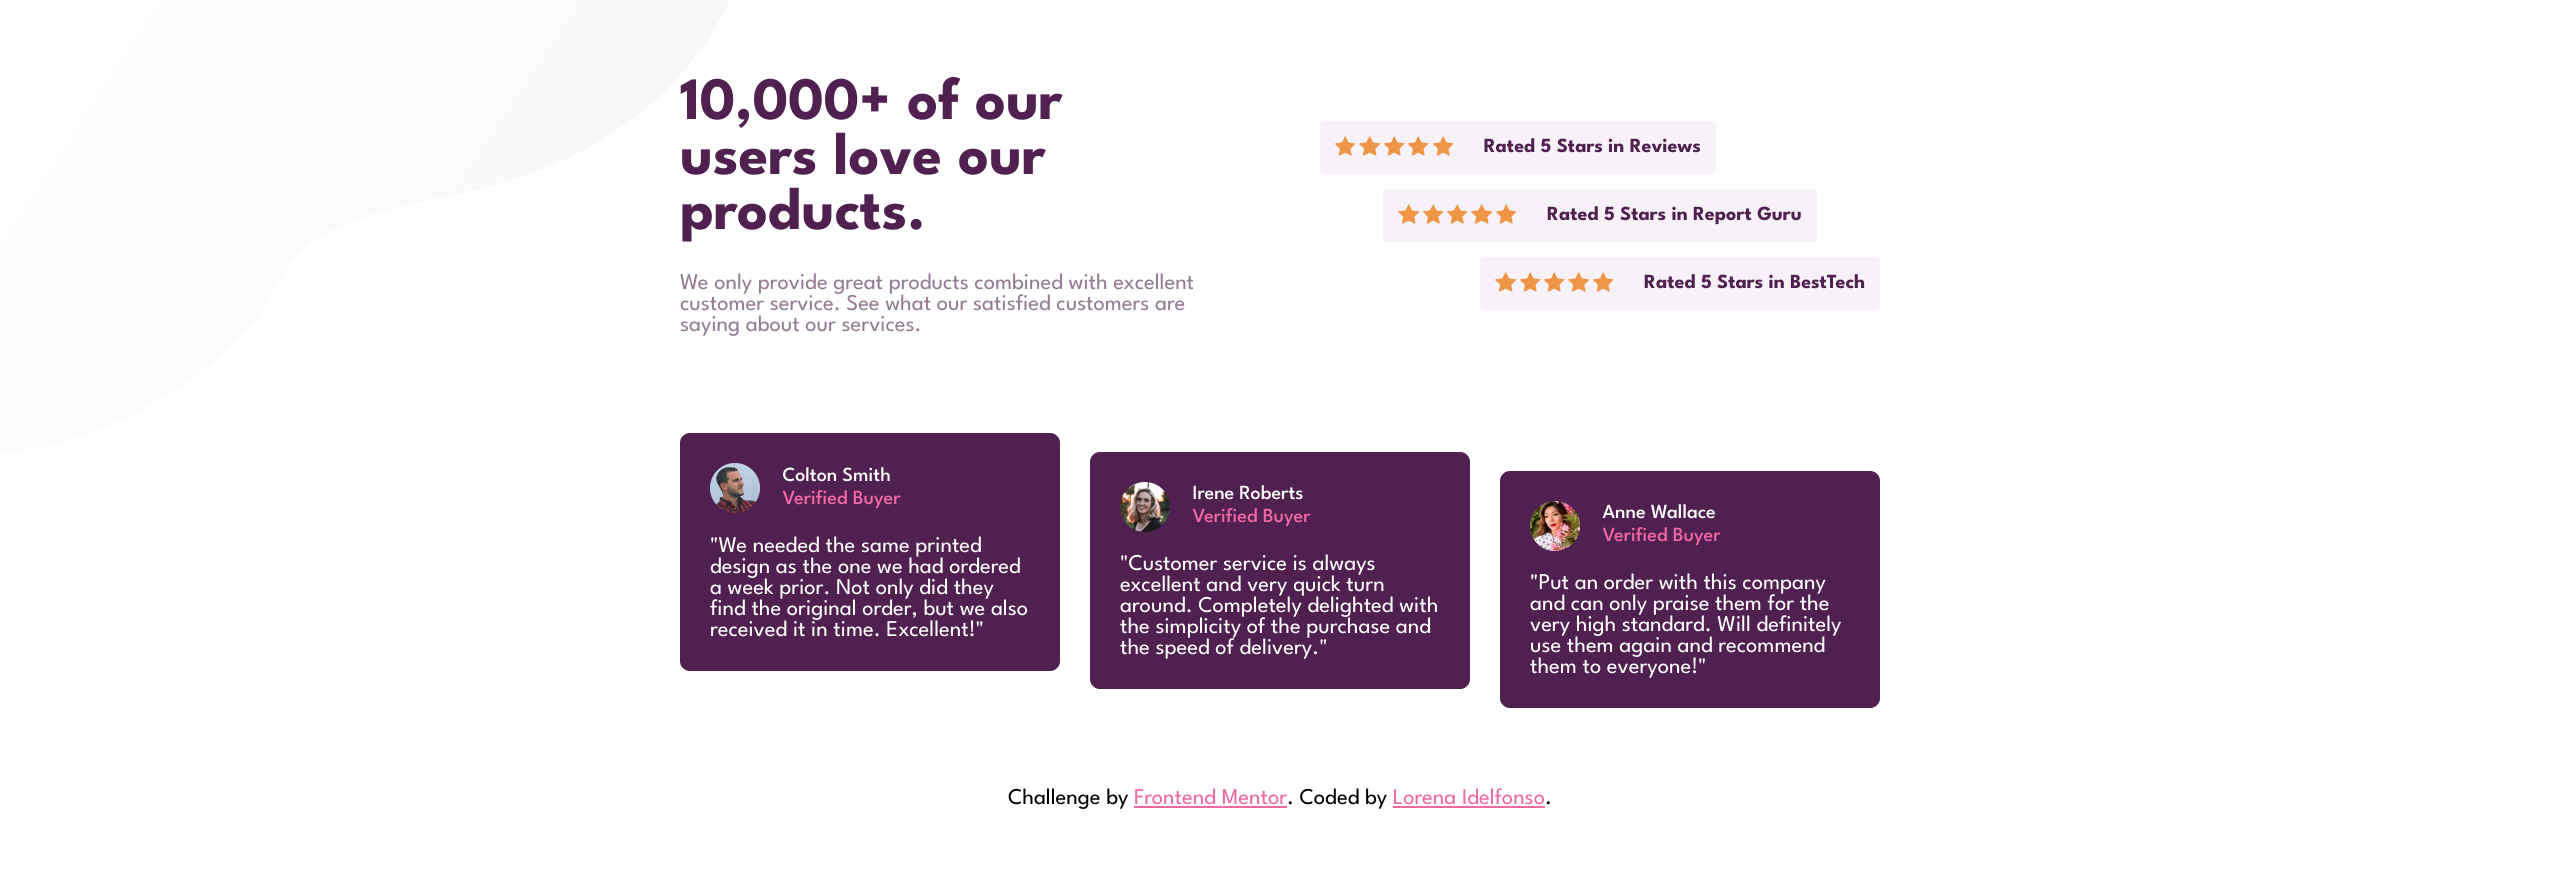
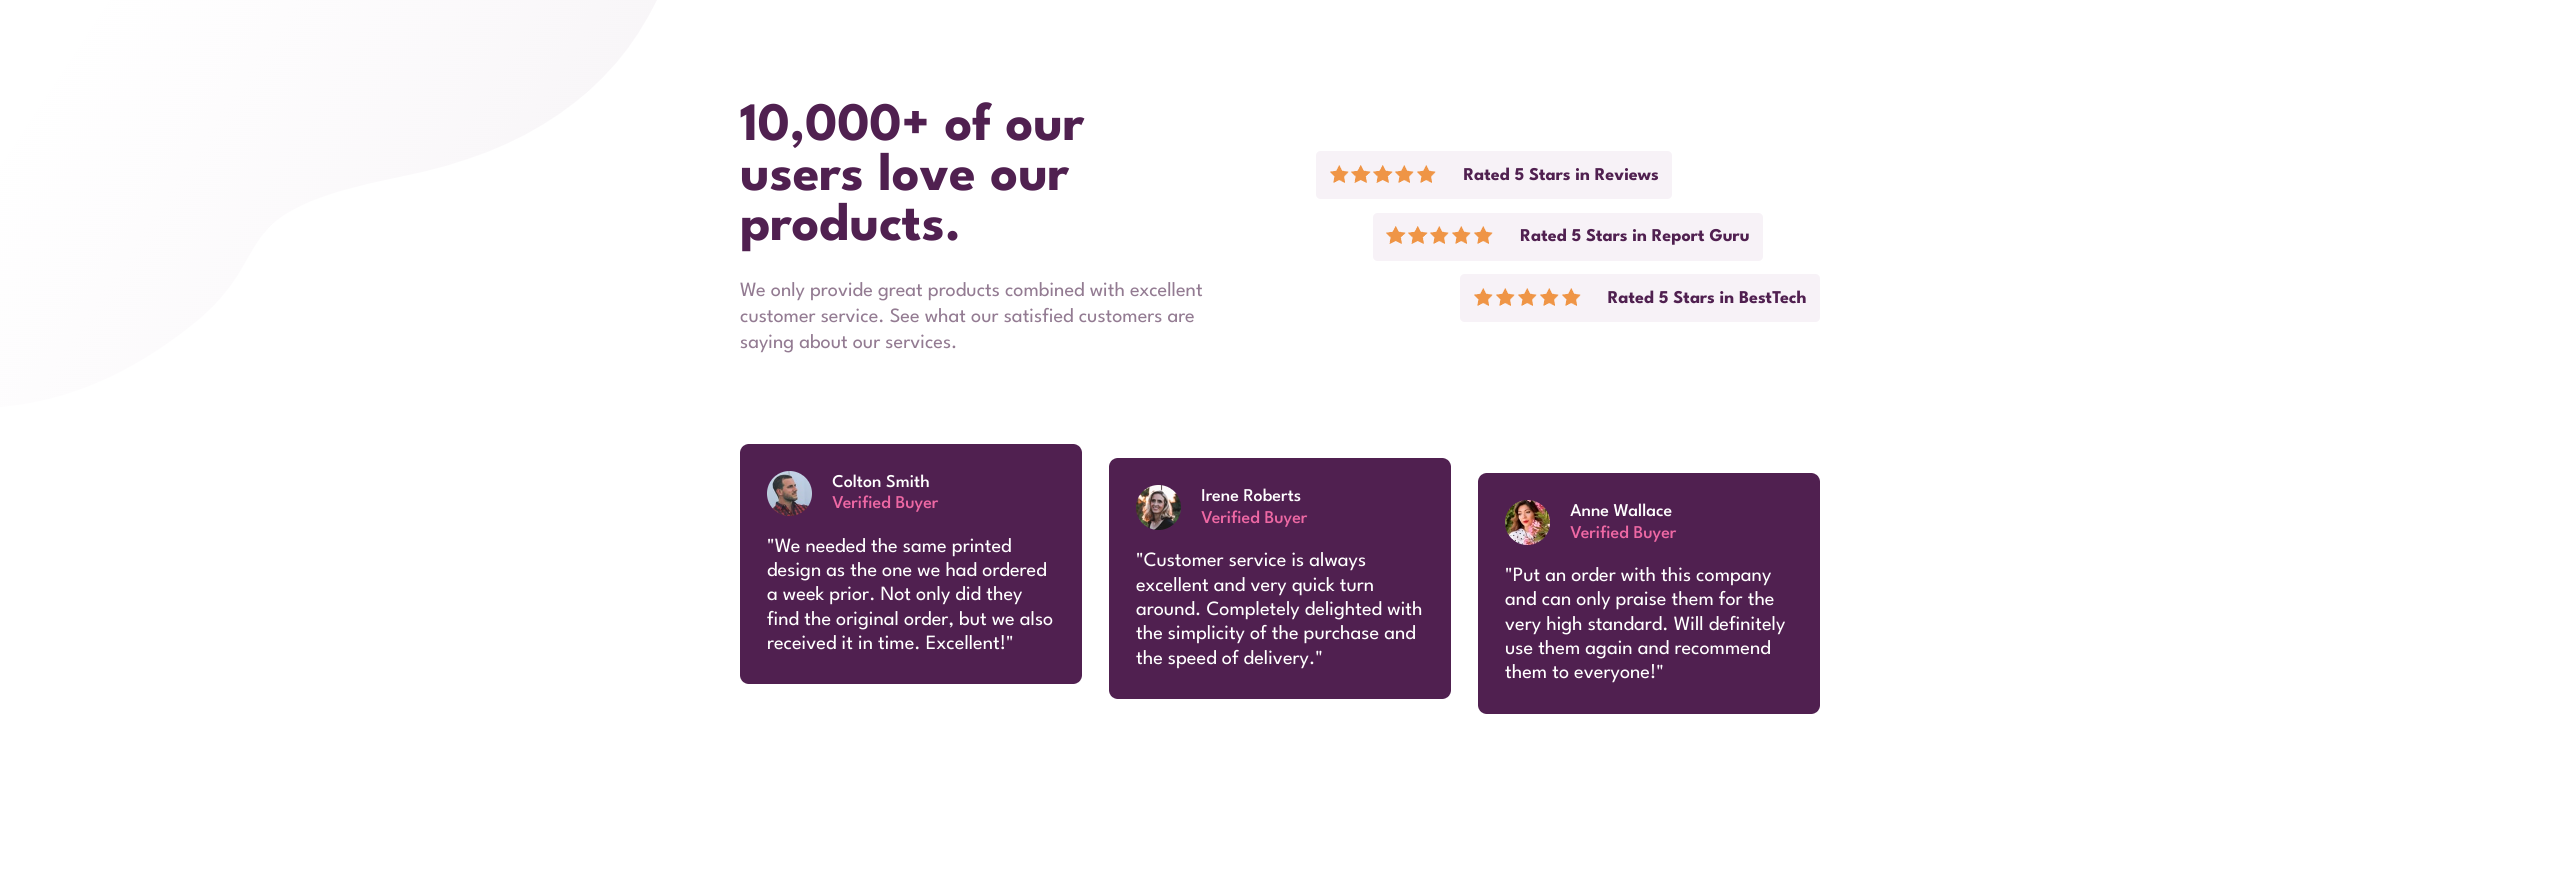
update

diff --git a/index.html b/index.html
@@ -3,7 +3,6 @@
   <head>
     <meta charset="UTF-8" />
     <meta name="viewport" content="width=device-width, initial-scale=1.0" />
-    <meta name="author" content="Lorena Idelfonso" />
     <link rel="preconnect" href="https://fonts.googleapis.com" />
     <link rel="preconnect" href="https://fonts.gstatic.com" crossorigin />
     <link
@@ -108,18 +107,6 @@
             them to everyone!"
           </p>
         </div>
-      </div>
-
-      <div class="attribution">
-        Challenge by
-        <a
-          href="https://www.frontendmentor.io?ref=challenge"
-          target="_blank"
-          rel="noreferrer noopener"
-          >Frontend Mentor</a
-        >. Coded by
-        <a href="https://github.com/LorenaIdelfonso" target="_blank" rel="noreferrer noopener">Lorena Idelfonso</a
-        >.
       </div>
     </main>
   </body>

diff --git a/style.css b/style.css
@@ -155,19 +155,6 @@ body {
   max-width: 45ch;
 }
 
-.attribution {
-  grid-column: 1/-1;
-  font-size: 1.8rem;
-  line-height: 1.4;
-  font-weight: 400;
-  justify-self: center;
-}
-
-.attribution a {
-  color: var(--color-p2);
-}
-
-
 @media (max-width: 600px) {
   body {
     background-image: url("/images/bg-pattern-top-mobile.svg");

diff --git a/README.md b/README.md
@@ -26,7 +26,7 @@ Users should be able to:
 
 ### Links
 
-- Solution URL: [Solution](https://www.frontendmentor.io/solutions/social-proof-section-n1e03rhDsF)
+- Solution URL: [Solution]()
 - Live Site URL: [Live Preview](https://lorenaidelfonso.github.io/frontend-mentor-social-proof-section/)
 
 ## My process
